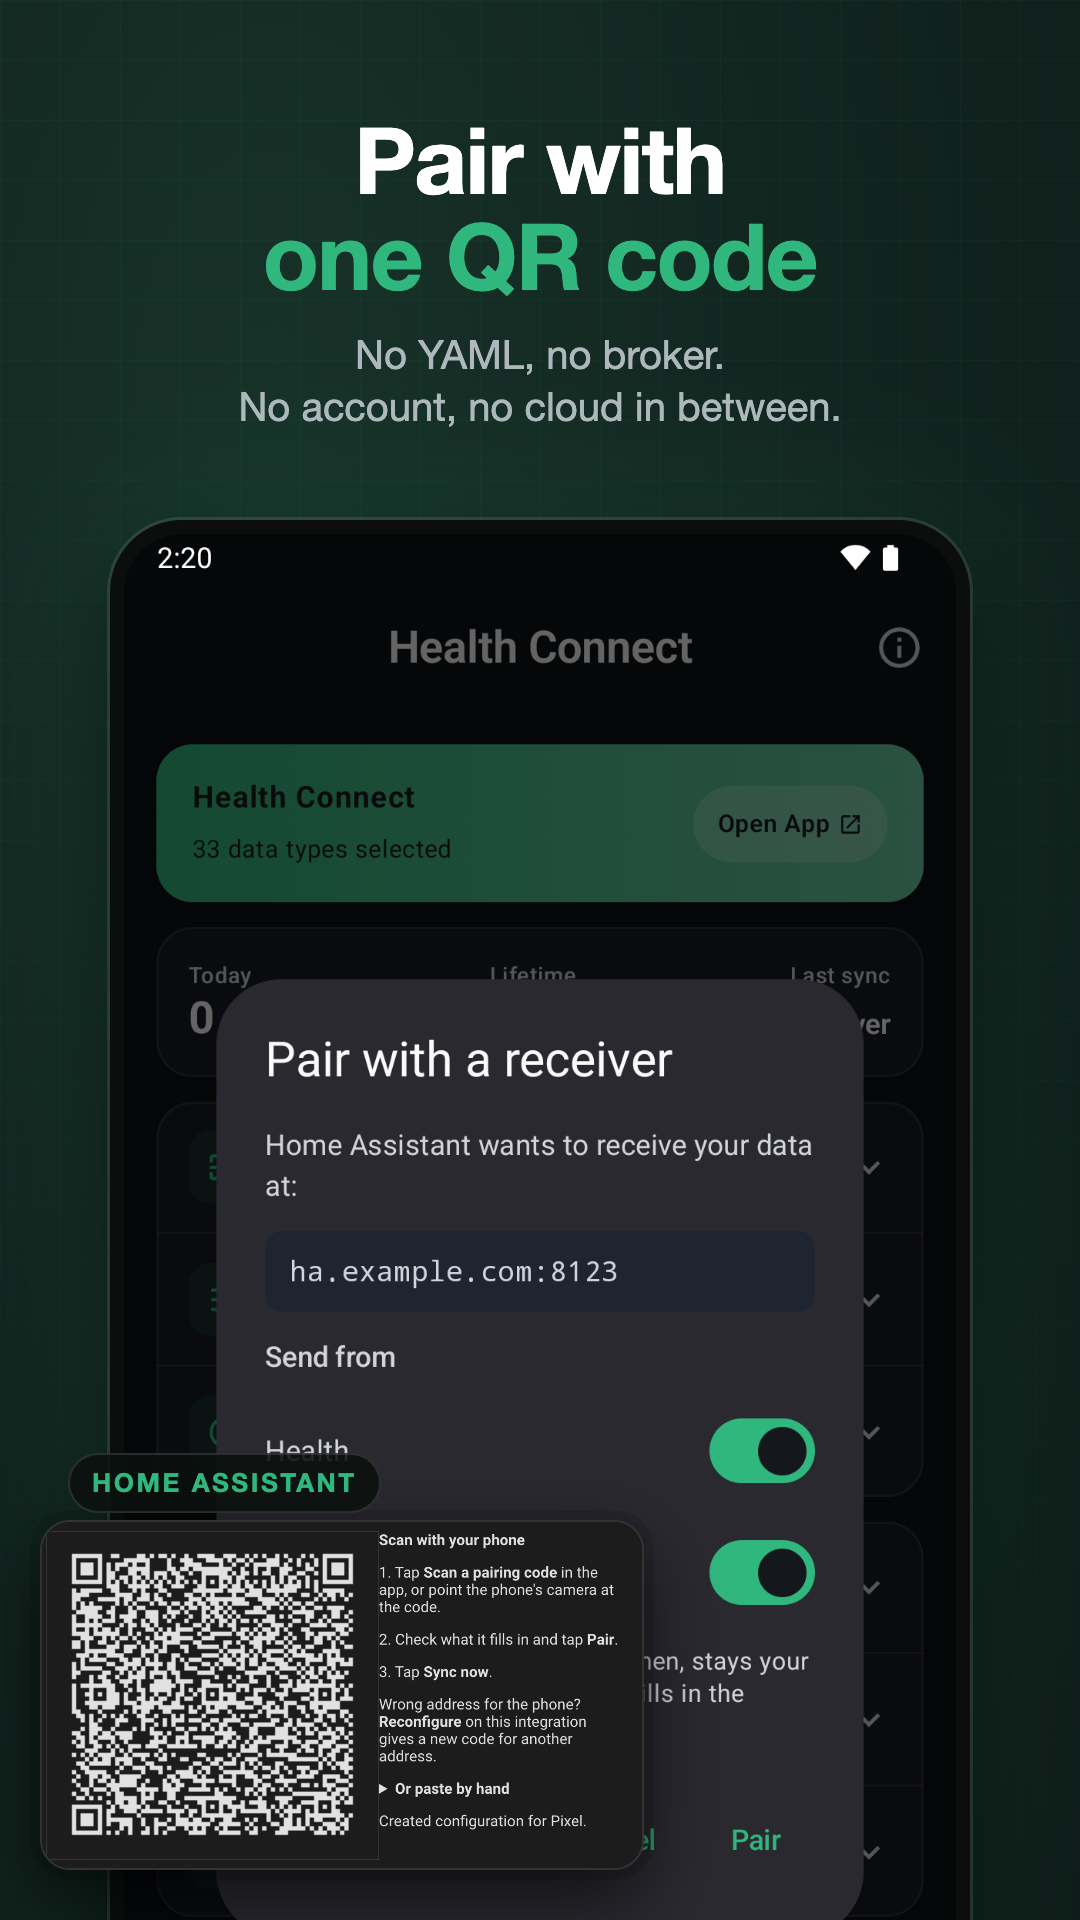
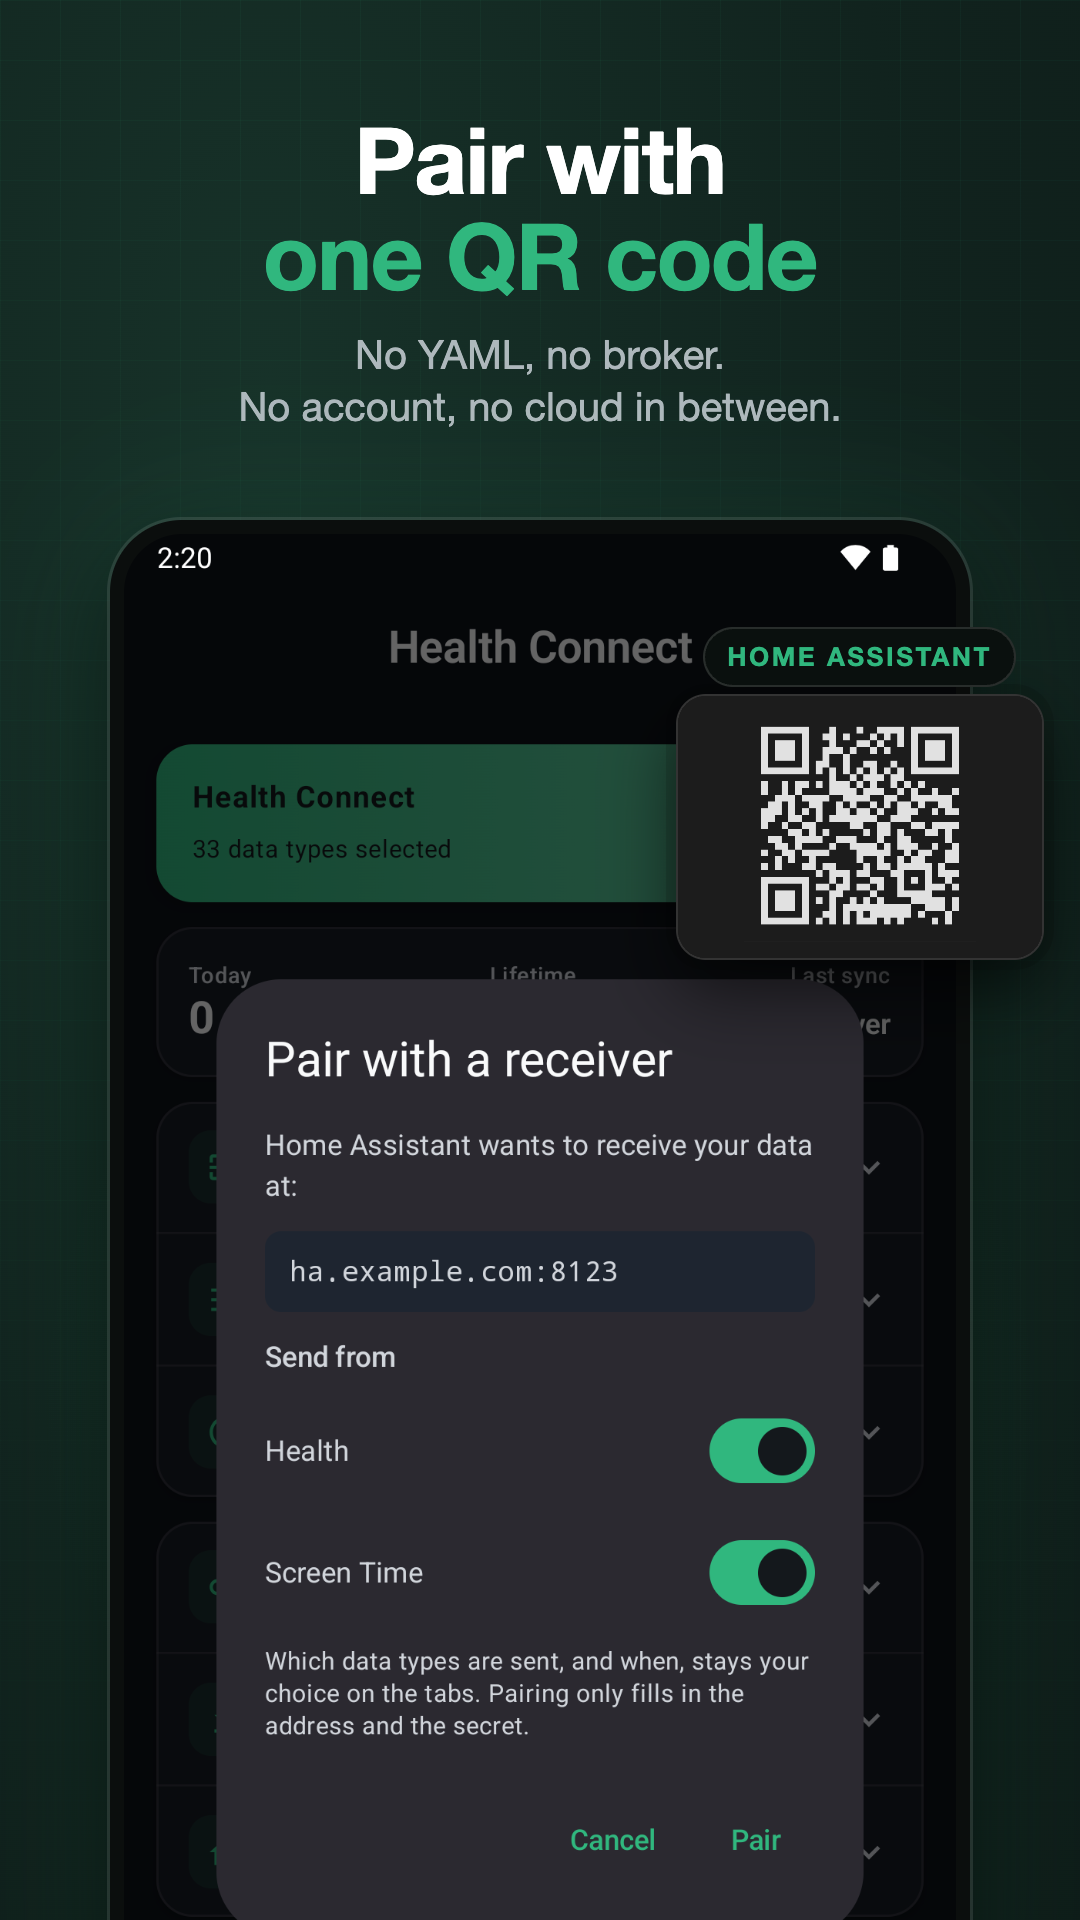
docs: Store screenshots 1, 2 and 5 keep every label whole under their insets
Slot 2 shows only a placeholder QR code above the pairing dialog, so the dialog and its buttons read in full and the code points at ha.example.com. Slot 1 and slot 5 move their insets so no chart label or row title is cut in half. The tag pills are opaque.

Changed region(s): [[0.0611, 0.75, 0.6111, 1.0], [0.6111, 0.3125, 0.9167, 0.5], [0.5194, 0.9375, 0.6111, 0.9688]]

diff --git a/docs/brand/store-shot.html b/docs/brand/store-shot.html
@@ -73,10 +73,10 @@
   .inset .crop { background-repeat: no-repeat; }
   .tag {
     position: absolute; font-size: 26px; font-weight: 700; letter-spacing: 2.5px; text-transform: uppercase;
-    color: var(--accent); background: rgba(10,16,14,0.88); border: 2px solid rgba(255,255,255,0.12);
+    color: var(--accent); background: #0A100E; border: 2px solid rgba(255,255,255,0.12);
     padding: 12px 22px; border-radius: 40px; white-space: nowrap;
   }
-  body.purple .tag { background: rgba(17,14,28,0.9); }
+  body.purple .tag { background: #110E1C; }
 
   .code {
     position: absolute; padding: 30px 34px; border-radius: 30px; background: #0A0F0D;
@@ -134,12 +134,13 @@ const SRC = "store-src/";
 const slots = {
   1: { h: "Your health data in<br><em>Home Assistant</em>", s: "Steps, sleep, heart rate and 30 more<br>types, on a schedule",
        html: phone(SRC + "H1-dashboard.png", "#111111") +
-             inset(crop(SRC + "A1-health.png", [40, 505, 1000, 370], 600), "left:40px; top:1640px;") +
-             tag("The app on your phone", "left:68px; top:1573px;") },
+             inset(crop(SRC + "A1-health.png", [40, 505, 1000, 370], 555), "left:40px; top:1673px;") +
+             tag("The app on your phone", "left:68px; top:1606px;") },
   2: { h: "Pair with<br><em>one QR code</em>", s: "No YAML, no broker.<br>No account, no cloud in between.",
        html: phone(SRC + "A2-pair.png") +
-             inset(crop(SRC + "H2-qr.png", [40, 160, 1110, 640], 600, 1160), "left:40px; top:1520px;") +
-             tag("Home Assistant", "left:68px; top:1453px;") },
+             inset(`<div style="width:364px;height:262px;background:#1C1C1C;display:flex;align-items:center;justify-content:center">` +
+               crop(SRC + "H2-qr.png", [52, 180, 608, 602], 232, 1160) + `</div>`, "right:36px; top:694px;") +
+             tag("Home Assistant", "right:64px; top:627px;") },
   3: { h: "Data from your<br><em>watch, ring and scale</em>", s: "Anything that writes to Health Connect",
        html: `<div class="flow">
          <div class="title">Your apps and devices</div>
@@ -162,7 +163,7 @@ const slots = {
              tag("The app", "right:64px; top:1433px;") },
   5: { h: "Screen time <em>per app</em>", s: "A sensor per app, with a day boundary you choose", cls: "purple",
        html: phone(SRC + "A4-screen-time.png") +
-             inset(crop(SRC + "H4-apps.png", [16, 460, 1050, 700], 620, 1082), "right:36px; top:1520px;") +
+             inset(crop(SRC + "H4-apps.png", [16, 460, 1050, 700], 560, 1082), "right:36px; top:1520px;") +
              tag("Home Assistant", "right:64px; top:1453px;") },
   6: { h: "Scale readings back<br>into <em>Health Connect</em>", s: "Weight, body fat and blood pressure<br>from Home Assistant",
        html: phone(SRC + "A5-receive.png") },
